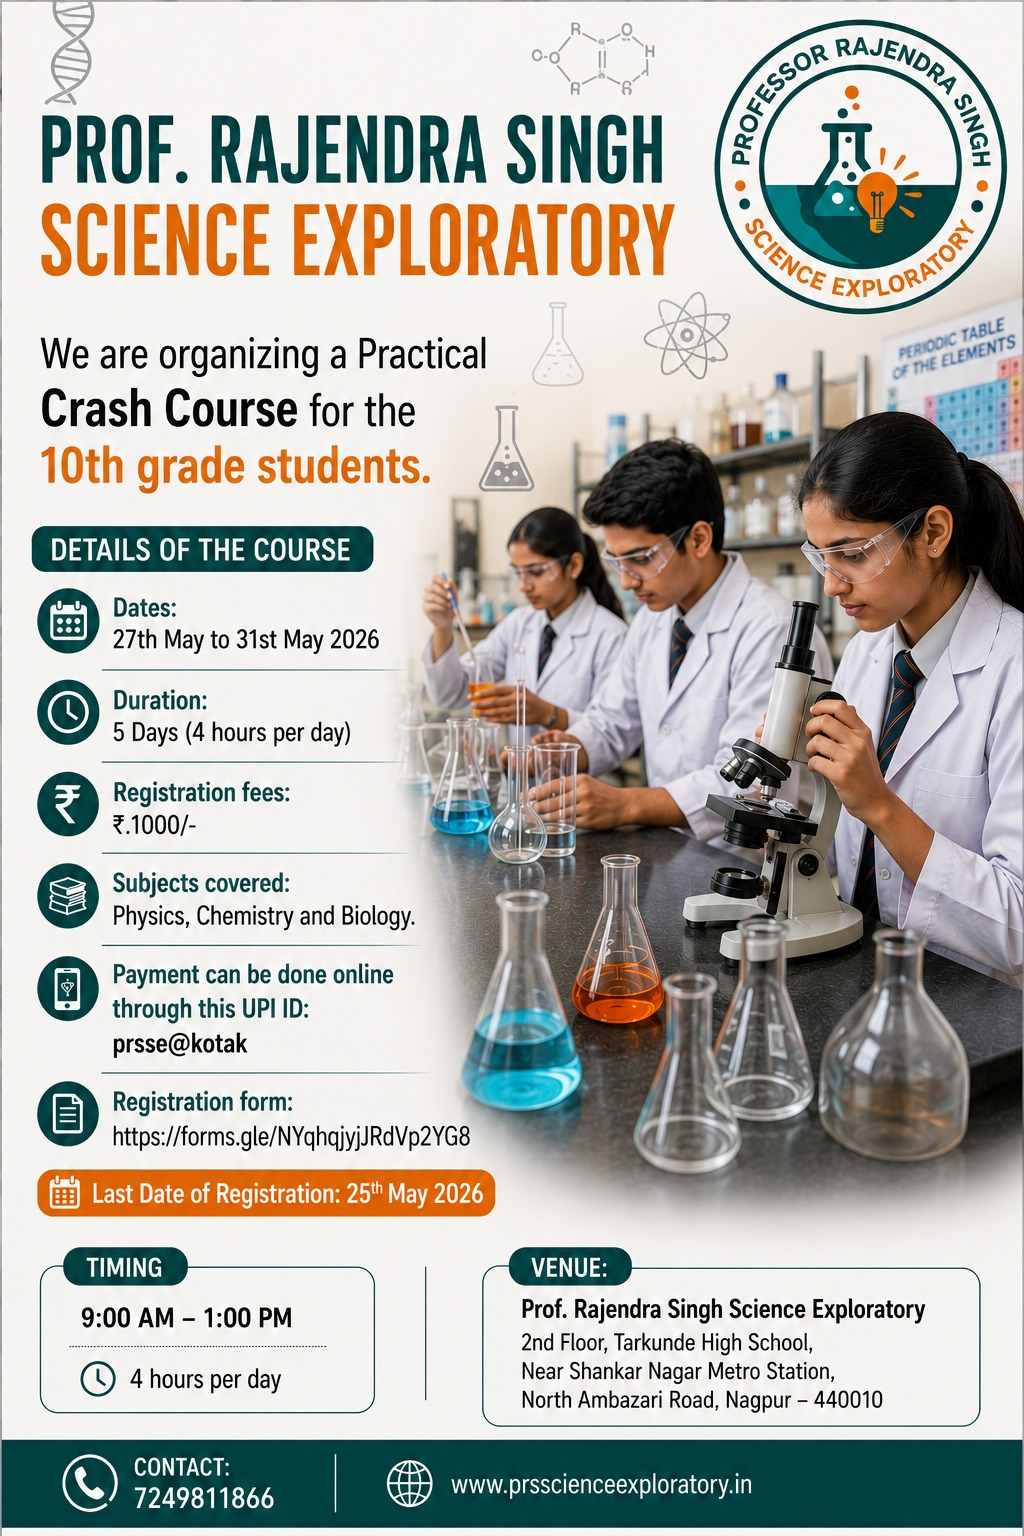
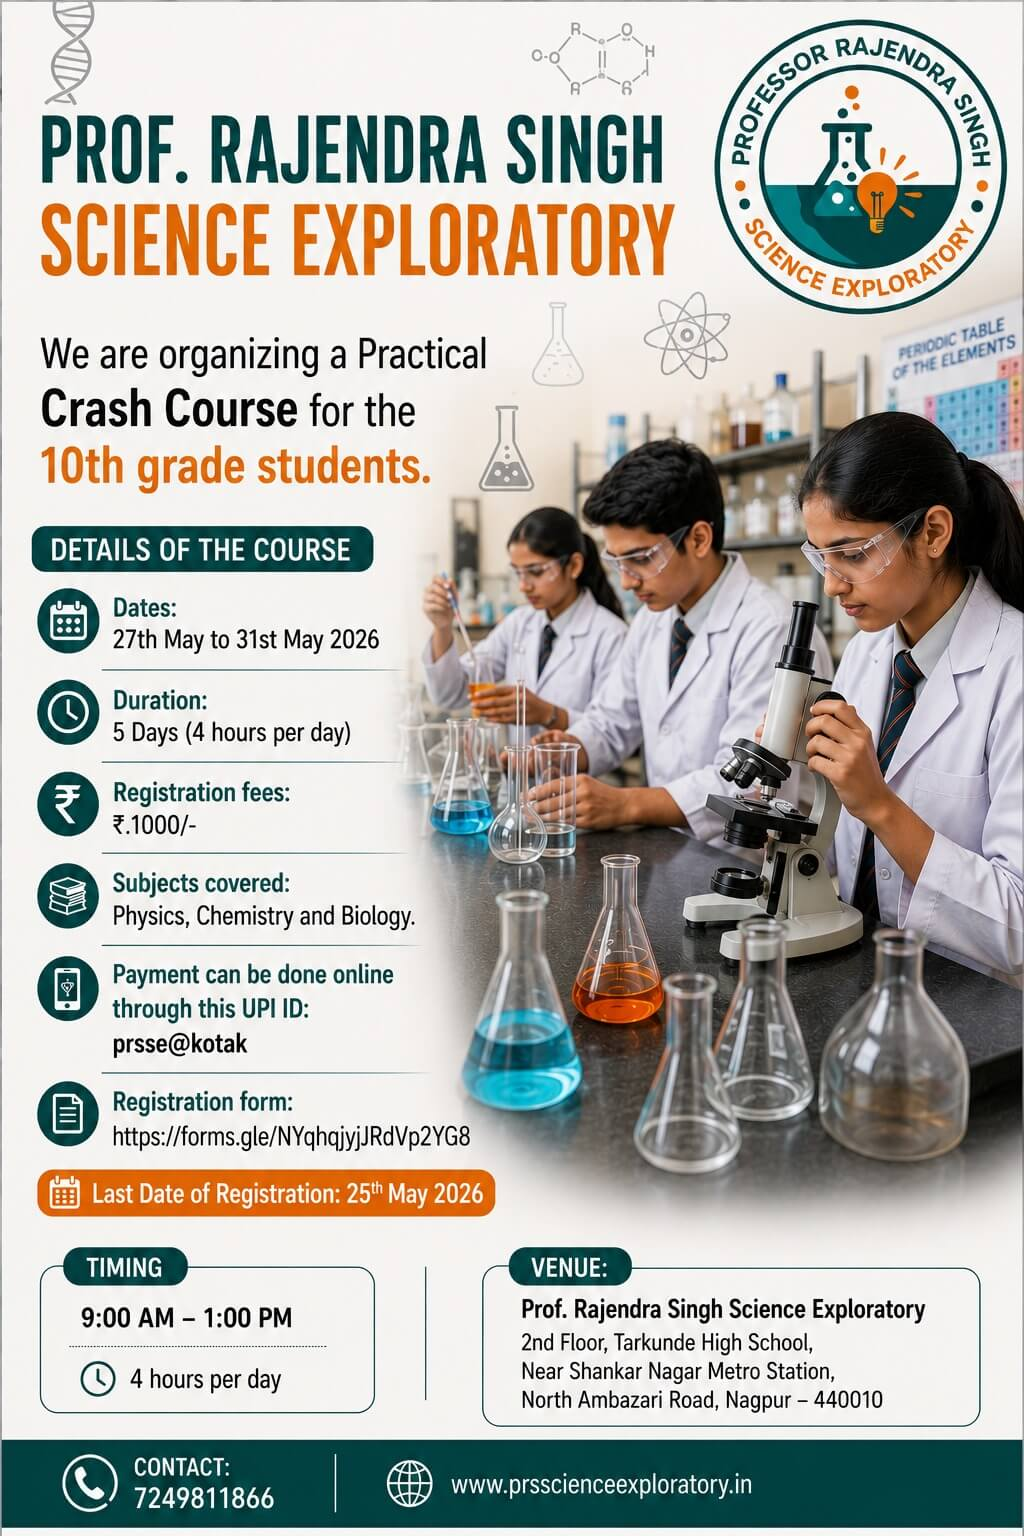
Announcement page changes

diff --git a/summer-events.html b/summer-events.html
@@ -121,19 +121,18 @@
                             <div class="row align-items-center">
                                 <div class="col col-lg-12">
                                     <div class="img-cont" style="margin-bottom: 25px;"><img src="assets/images/prsse-crash-course-2026.jpeg" alt="Preparatory Session for the Dr. Homi Bhabda Balvaidnyanik Competition"></div>
-                                    <div class="img-cont" style="margin-bottom: 25px;"><img src="assets/images/new-bnr1.jpg" alt="Preparatory Session for the Dr. Homi Bhabda Balvaidnyanik Competition"></div>
-                                    <div class="img-cont" style="margin-bottom: 25px;"><img src="assets/images/new-bnr2.jpg" alt="Preparatory Session for the Dr. Homi Bhabda Balvaidnyanik Competition"></div>
-                                
+                                    <div class="img-cont" style="margin-bottom: 25px;"><img src="assets/images/about-prssescience-exploratory.jpeg" alt="Preparatory Session for the Dr. Homi Bhabda Balvaidnyanik Competition"></div>
+                                    <div class="img-cont" style="margin-bottom: 25px;"><img src="assets/images/summer-camp-2026.jpeg" alt="Preparatory Session for the Dr. Homi Bhabda Balvaidnyanik Competition"></div>
                                 </div>
                             </div>
                         </div>
                     </div>
                 </section>
 				
-			<style>
+			<!-- <style>
 			.meta_info_list li{list-item:none;font-size:16px;}
 			.meta_info_list li::marker{font-size:0px;}
-			</style>
+			</style> -->
                 <section class="newslatter_section">
                     <div class="container">
                         <div class="newslatter_box" style="background-image: url(assets/images/shape/shape_img_6.svg);">
